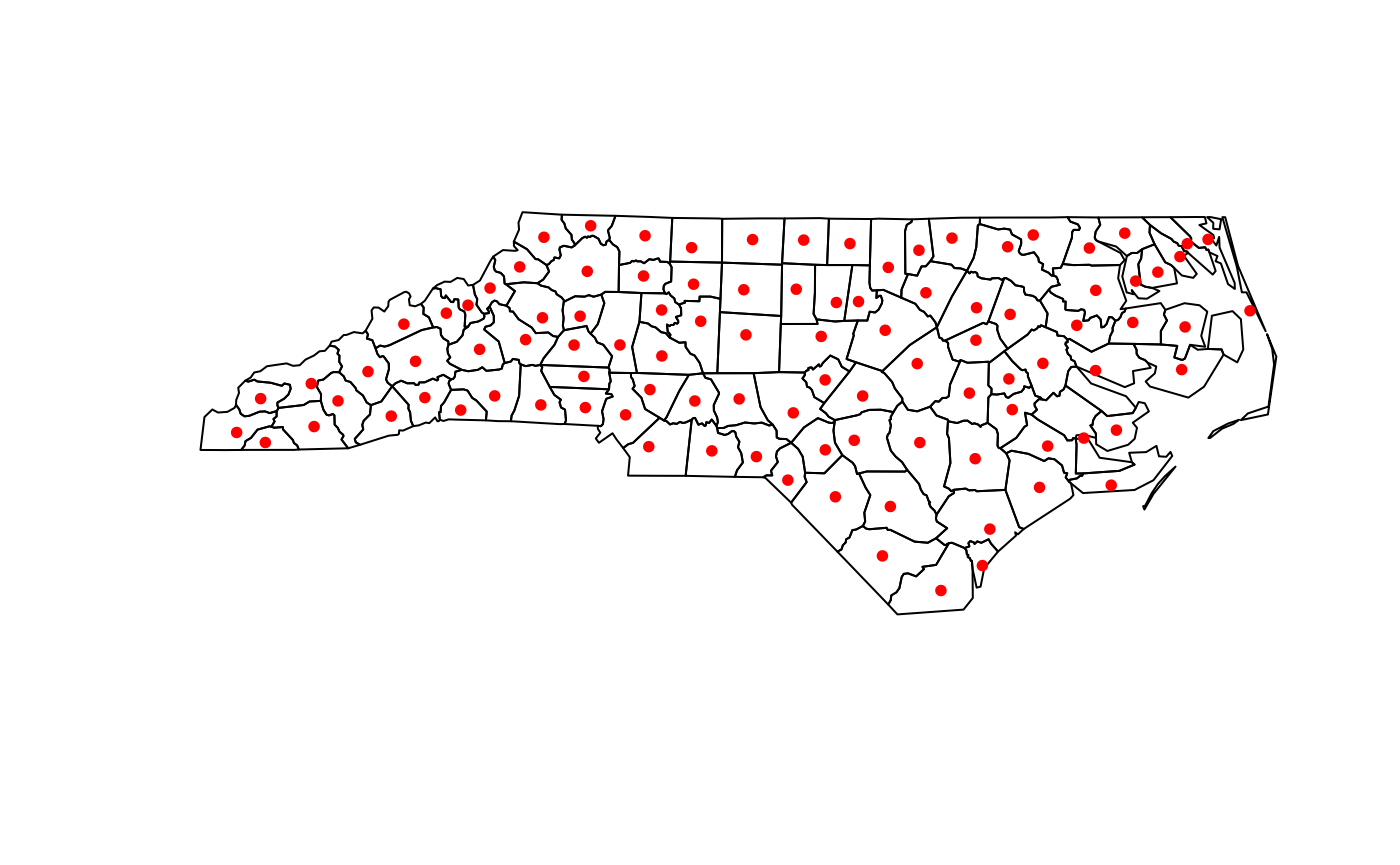
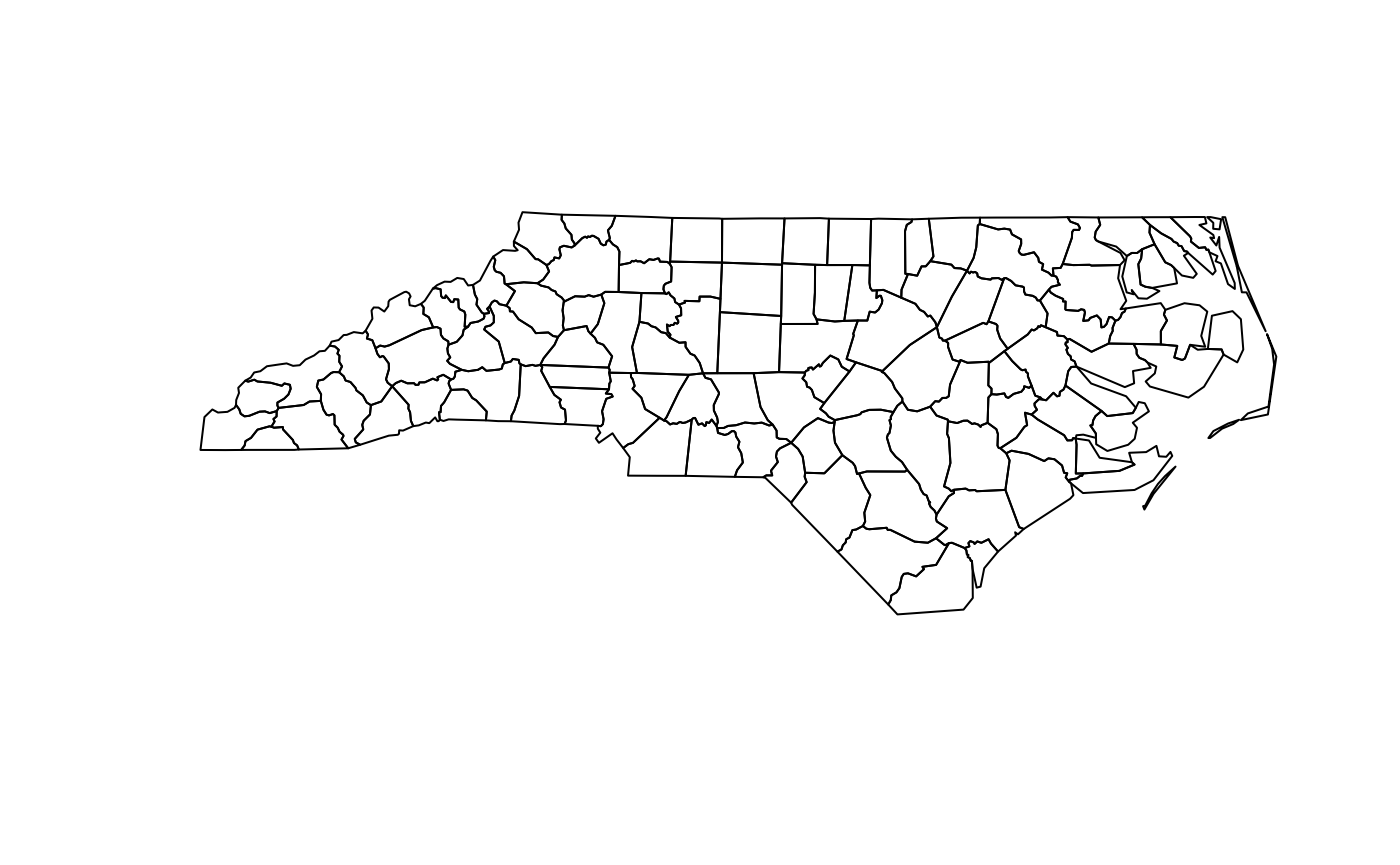
Deploying to gh-pages from @ ryanzomorrodi/centr@5ccef25df317fc7a51e97cf04991343c948ce6b4 🚀

diff --git a/articles/typical_usage.html b/articles/typical_usage.html
@@ -102,7 +102,7 @@ the census using <code>tigris</code>.</p>
 <span><span class="co">#&gt; <span style="color: #555555;">This warning is displayed once per session.</span></span></span>
 <span><span class="co">#&gt; Downloading feature geometry from the Census website.  To cache shapefiles for use in future sessions, set `options(tigris_use_cache = TRUE)`.</span></span>
 <span><span class="co">#&gt; Using the PL 94-171 Redistricting Data Summary File</span></span>
-<span><span class="co">#&gt;   |                                                                              |                                                                      |   0%  |                                                                              |                                                                      |   1%  |                                                                              |=                                                                     |   1%  |                                                                              |=                                                                     |   2%  |                                                                              |==                                                                    |   3%  |                                                                              |===                                                                   |   4%  |                                                                              |===                                                                   |   5%  |                                                                              |====                                                                  |   5%  |                                                                              |=====                                                                 |   7%  |                                                                              |======                                                                |   8%  |                                                                              |======                                                                |   9%  |                                                                              |=======                                                               |  10%  |                                                                              |========                                                              |  12%  |                                                                              |=========                                                             |  13%  |                                                                              |===========                                                           |  15%  |                                                                              |===========                                                           |  16%  |                                                                              |============                                                          |  18%  |                                                                              |=============                                                         |  18%  |                                                                              |=============                                                         |  19%  |                                                                              |===============                                                       |  21%  |                                                                              |=================                                                     |  24%  |                                                                              |==================                                                    |  26%  |                                                                              |====================                                                  |  29%  |                                                                              |======================                                                |  31%  |                                                                              |========================                                              |  34%  |                                                                              |========================                                              |  35%  |                                                                              |==========================                                            |  37%  |                                                                              |============================                                          |  39%  |                                                                              |=============================                                         |  42%  |                                                                              |==============================                                        |  43%  |                                                                              |===============================                                       |  45%  |                                                                              |=================================                                     |  47%  |                                                                              |===================================                                   |  50%  |                                                                              |===========================================================           |  85%  |                                                                              |======================================================================| 100%</span></span>
+<span><span class="co">#&gt;   |                                                                              |                                                                      |   0%  |                                                                              |                                                                      |   1%  |                                                                              |=                                                                     |   1%  |                                                                              |=                                                                     |   2%  |                                                                              |==                                                                    |   3%  |                                                                              |===                                                                   |   4%  |                                                                              |===                                                                   |   5%  |                                                                              |====                                                                  |   5%  |                                                                              |====                                                                  |   6%  |                                                                              |=====                                                                 |   7%  |                                                                              |======                                                                |   8%  |                                                                              |======                                                                |   9%  |                                                                              |=======                                                               |  10%  |                                                                              |========                                                              |  11%  |                                                                              |========                                                              |  12%  |                                                                              |===========                                                           |  15%  |                                                                              |============                                                          |  17%  |                                                                              |============                                                          |  18%  |                                                                              |==============                                                        |  20%  |                                                                              |======================================                                |  55%  |                                                                              |==============================================================        |  89%  |                                                                              |======================================================================| 100%</span></span>
 <span><span class="co">#&gt; <span style="color: #00BBBB;">Note: 2020 decennial Census data use differential privacy, a technique that</span></span></span>
 <span><span class="co"><span style="color: #00BBBB;">#&gt; introduces errors into data to preserve respondent confidentiality.</span></span></span>
 <span><span class="co">#&gt; <span style="color: #0000BB;">ℹ</span> <span style="color: #BB00BB;">Small counts should be interpreted with caution.</span></span></span>
@@ -178,30 +178,13 @@ minimizes distance to all geometries. <code><a href="../reference/median_center.
 supports projected coordinates, so let’s project to the North Carolina
 state plane.</p>
 <div class="sourceCode" id="cb7"><pre class="downlit sourceCode r">
-<code class="sourceCode R"><span><span class="va">NC_tracts</span> <span class="op">|&gt;</span></span>
+<code class="sourceCode R"><span><span class="va">NC_county_medians</span> <span class="op">&lt;-</span> <span class="va">NC_tracts</span> <span class="op">|&gt;</span></span>
 <span>  <span class="fu"><a href="https://r-spatial.github.io/sf/reference/st_transform.html" class="external-link">st_transform</a></span><span class="op">(</span><span class="fl">32119</span><span class="op">)</span> <span class="op">|&gt;</span></span>
-<span>  <span class="fu"><a href="../reference/median_center.html">median_center</a></span><span class="op">(</span>group <span class="op">=</span> <span class="st">"GEOID_county"</span>, weight <span class="op">=</span> <span class="st">"value"</span><span class="op">)</span></span>
-<span><span class="co">#&gt; Simple feature collection with 100 features and 1 field</span></span>
-<span><span class="co">#&gt; Geometry type: POINT</span></span>
-<span><span class="co">#&gt; Dimension:     XY</span></span>
-<span><span class="co">#&gt; Bounding box:  xmin: 152678.1 ymin: 30541.25 xmax: 908546.1 ymax: 309372.5</span></span>
-<span><span class="co">#&gt; Projected CRS: NAD83 / North Carolina</span></span>
-<span><span class="co">#&gt; First 10 features:</span></span>
-<span><span class="co">#&gt;    group                  geometry</span></span>
-<span><span class="co">#&gt; 1  37037   POINT (594827.4 223972)</span></span>
-<span><span class="co">#&gt; 2  37105 POINT (593571.9 190317.3)</span></span>
-<span><span class="co">#&gt; 3  37013 POINT (792026.9 199744.2)</span></span>
-<span><span class="co">#&gt; 4  37001 POINT (571361.8 258461.8)</span></span>
-<span><span class="co">#&gt; 5  37063 POINT (618402.7 248046.7)</span></span>
-<span><span class="co">#&gt; 6  37065 POINT (732252.2 238926.9)</span></span>
-<span><span class="co">#&gt; 7  37129  POINT (712703.4 52208.8)</span></span>
-<span><span class="co">#&gt; 8  37151 POINT (535552.1 222369.7)</span></span>
-<span><span class="co">#&gt; 9  37159 POINT (472416.9 209383.7)</span></span>
-<span><span class="co">#&gt; 10 37181 POINT (662822.4 286103.9)</span></span></code></pre></div>
+<span>  <span class="fu"><a href="../reference/median_center.html">median_center</a></span><span class="op">(</span>group <span class="op">=</span> <span class="st">"GEOID_county"</span>, weight <span class="op">=</span> <span class="st">"value"</span><span class="op">)</span></span></code></pre></div>
 <p>Let’s see how it looks.</p>
 <div class="sourceCode" id="cb8"><pre class="downlit sourceCode r">
 <code class="sourceCode R"><span><span class="fu"><a href="https://rdrr.io/r/graphics/plot.default.html" class="external-link">plot</a></span><span class="op">(</span><span class="fu"><a href="https://r-spatial.github.io/sf/reference/st_geometry.html" class="external-link">st_geometry</a></span><span class="op">(</span><span class="va">NC_counties</span><span class="op">)</span><span class="op">)</span></span>
-<span><span class="fu"><a href="https://rdrr.io/r/graphics/plot.default.html" class="external-link">plot</a></span><span class="op">(</span><span class="fu"><a href="https://r-spatial.github.io/sf/reference/st_geometry.html" class="external-link">st_geometry</a></span><span class="op">(</span><span class="va">NC_county_means</span><span class="op">)</span>, pch <span class="op">=</span> <span class="fl">20</span>, cex <span class="op">=</span> <span class="fl">1</span>, col <span class="op">=</span> <span class="st">"red"</span>, add <span class="op">=</span> <span class="cn">TRUE</span><span class="op">)</span></span></code></pre></div>
+<span><span class="fu"><a href="https://rdrr.io/r/graphics/plot.default.html" class="external-link">plot</a></span><span class="op">(</span><span class="fu"><a href="https://r-spatial.github.io/sf/reference/st_geometry.html" class="external-link">st_geometry</a></span><span class="op">(</span><span class="va">NC_county_medians</span><span class="op">)</span>, pch <span class="op">=</span> <span class="fl">20</span>, cex <span class="op">=</span> <span class="fl">1</span>, col <span class="op">=</span> <span class="st">"red"</span>, add <span class="op">=</span> <span class="cn">TRUE</span><span class="op">)</span></span></code></pre></div>
 <p><img src="typical_usage_files/figure-html/unnamed-chunk-8-1.png" width="700"></p>
 <p>And that’s the whole game, so go out and try it for yourself!</p>
 </div>
